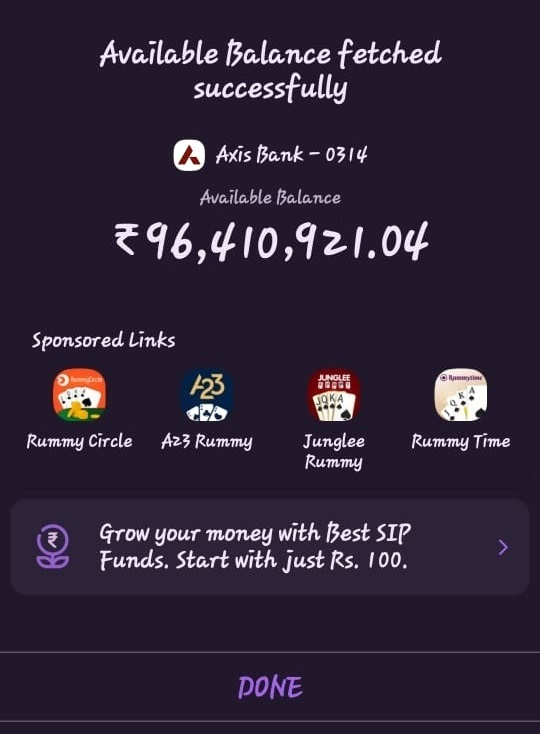
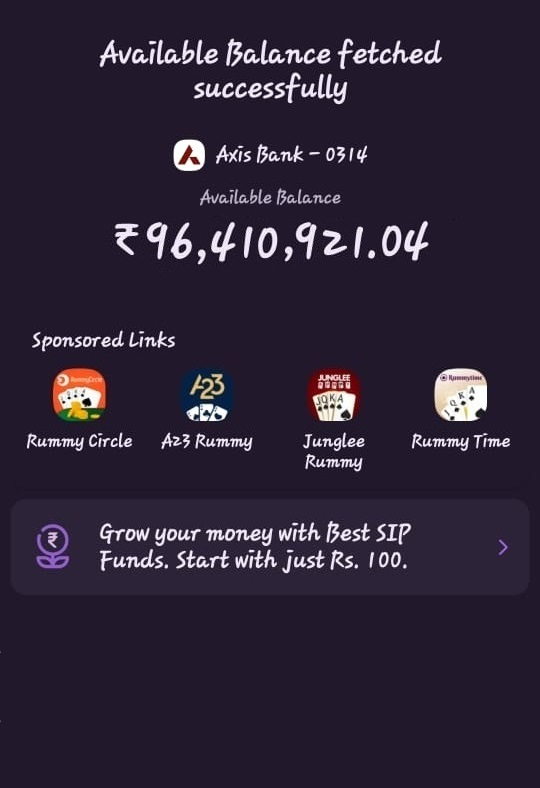
fake

diff --git a/fake-phonepe-balance/upi-3.html b/fake-phonepe-balance/upi-3.html
@@ -15,5 +15,23 @@
 
                         
 <br><br><br><br>
-<center><img src="13th.gif" alt="phonepe" style="width:35%;height:;"></a></center>
- <a href="index.html"><img src="14th.jpeg" alt="phonepe" style="width:100%;height:;"></a>
+<center><img src="13th.gif" alt="phonepe" style="width:45%;height:;"></a></center>
+<img src="14th.jpeg" alt="phonepe" style="width:100%;height:;">
+
+
+ <div class="footer">
+ <a href="index.html"><img src="16th.jpeg" alt="phonepe" style="width:100%;height:;"></a>
+</div>
+
+
+        <style>
+.footer {
+   position: fixed;
+   left: 0;
+   bottom: 0;
+   width: 100%;
+   background-color: ;
+   color: white;
+   text-align: center;
+}
+</style>
